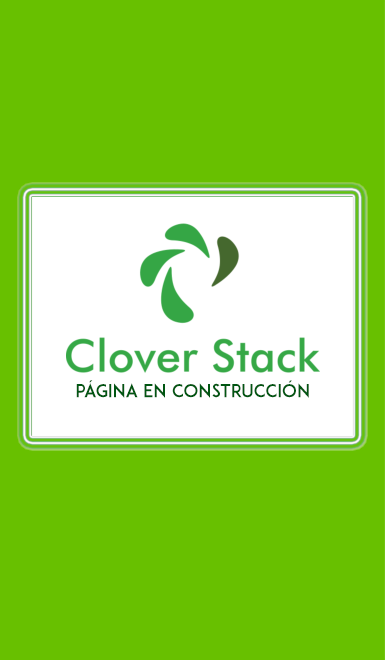
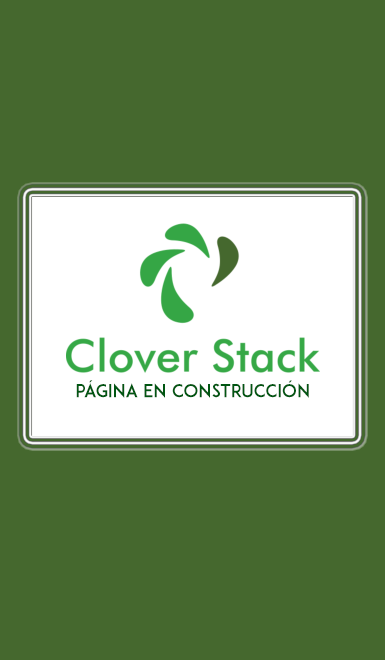
Listo 92%

diff --git a/css/containBook.css b/css/containBook.css
@@ -1,5 +1,14 @@
+.container-book.book3{
+    background-image: url(../imagenes/Transparente3.png);
+}
+.container-book.book2{
+    background-image: url(../imagenes/Transparente2.png);
+}
 .container-book{
     background-image: url(../imagenes/Transparente.png);
+}
+.container-book .book2,
+.container-book{
     background-repeat: no-repeat;
     background-size: cover;
     width: 100%;

diff --git a/HarryPotter3.html b/HarryPotter3.html
@@ -52,7 +52,7 @@
             <li><a href="#">jhonatanarizaq@gmail.com</a></li>
         </ul>
     </nav>
-    <section class="container-book book2">
+    <section class="container-book book3">
         <div class="container">
             <div class="infoGeneral">
                 <div class="photo-book">
